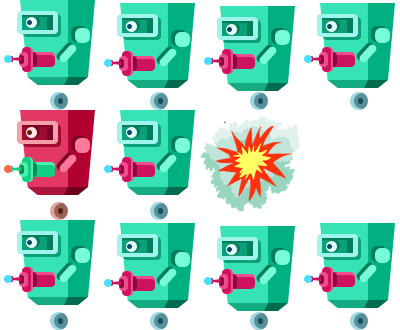
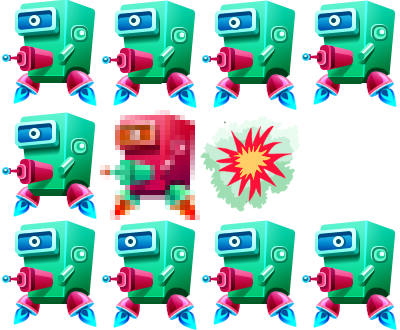
Added animation for Player ROBOT 5, die direction

diff --git a/src/easeljs/Player.js b/src/easeljs/Player.js
@@ -377,7 +377,7 @@
 
         // Playing the proper animation based on
         // the current direction of our hero
-        if (this.direction === 1) {
+        if (this.lastdirection === 1) {
             this.gotoAndPlay("die_h");
         }
         else {
